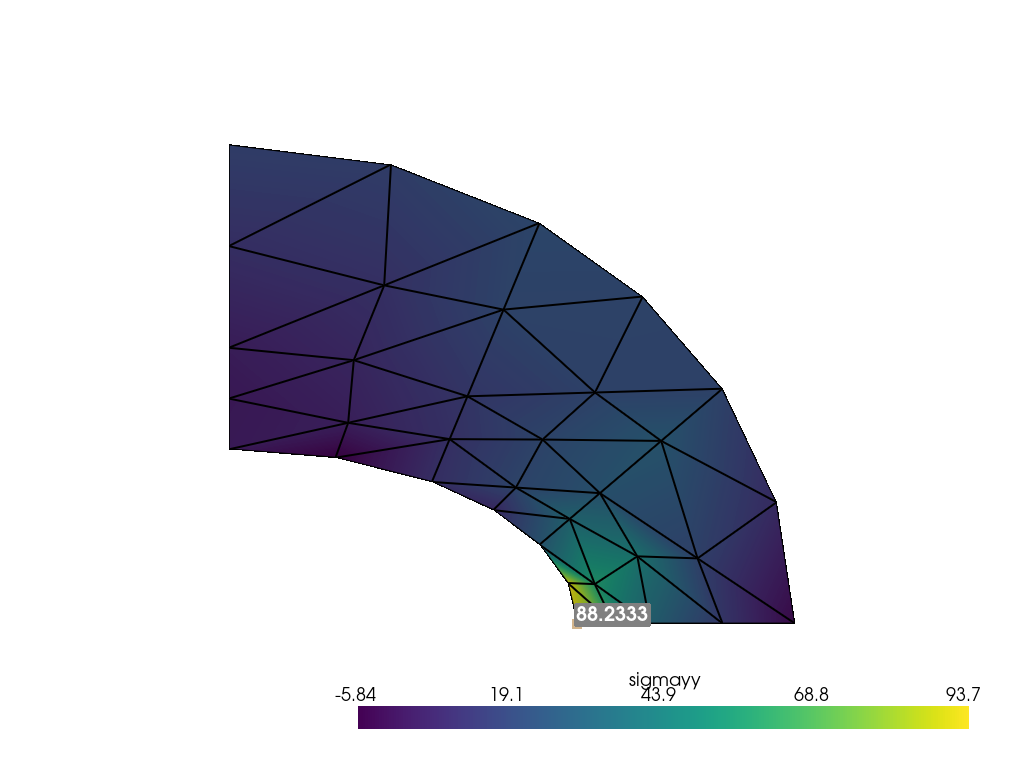
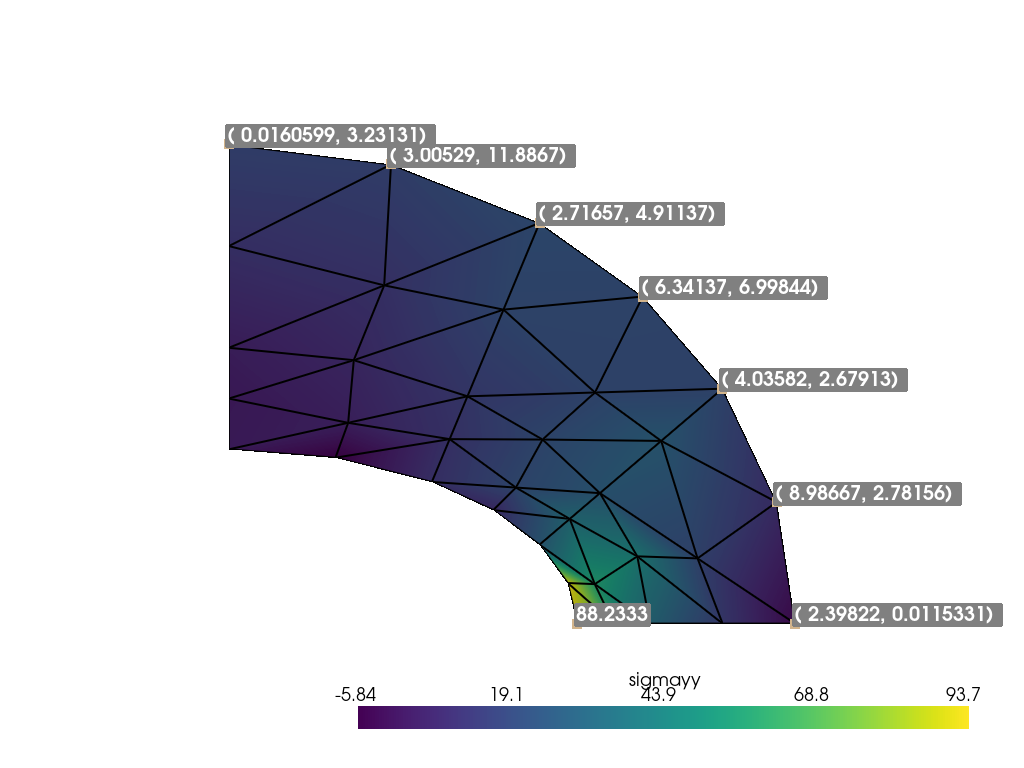
Add coarse-triangle-2d.py output

diff --git a/benchmarks_data/structure/elliptic_membrane/GetFEM/coarse-triangle-2d.py b/benchmarks_data/structure/elliptic_membrane/GetFEM/coarse-triangle-2d.py
@@ -45,6 +45,8 @@ md.add_initialized_data("nu", nu)
 md.add_isotropic_linearized_elasticity_pstress_brick(mim, "u", "E", "nu")
 md.add_normal_source_term_brick(mim, "u", "NeumannData", OUTER_BOUND)
 # md.add_source_term(mim, "(Reshape(NeumannData,qdim(u),meshdim)*Normal).Test_u", OUTER_BOUND)
+md.assembly()
+RHS = md.rhs()
 md.add_initialized_data("r1", [0, 0])
 md.add_initialized_data("r2", [0, 0])
 md.add_initialized_data("H1", [[1, 0], [0, 0]])
@@ -59,16 +61,24 @@ md.solve()
 U = md.variable("u")
 grad_u = gf.compute_gradient(mfu, U, mfd)
 sigmayy = clambda * (grad_u[0, 0] + grad_u[1, 1]) + 2.0 * mu * grad_u[1, 1]
-mfu.export_to_vtk("coarse-triangle-2d.vtk", "ascii", mfd, sigmayy, "sigmayy")
+mfu.export_to_vtk(
+    "coarse-triangle-2d.vtk", "ascii", mfd, sigmayy, "sigmayy", mfu, RHS, "RHS"
+)
 
 m = pv.read("coarse-triangle-2d.vtk")
 pl = pv.Plotter()
 pl.add_mesh(m, show_edges=True, line_width=2, scalars="sigmayy")
 pl.add_point_labels(
-    m.points[np.all(m.points == [2.0, 0.0, 0.0], axis=1)],
-    [str(m["sigmayy"][np.all(m.points == [2.0, 0.0, 0.0], axis=1)][0])],
-    point_size=10,
-    font_size=20,
-    text_color="white",
+    m.points[0], [str(m["sigmayy"][0])], point_size=10, font_size=20, text_color="white"
 )
+
+for i in [19, 21, 23, 26, 28, 30, 31]:
+    pl.add_point_labels(
+        m.points[i],
+        ["( " + str(m["RHS"][:, 0][i]) + ", " + str(m["RHS"][:, 1][i]) + ") "],
+        point_size=10,
+        font_size=20,
+        text_color="white",
+    )
+
 pl.show(cpos="xy", screenshot="coarse-triangle-2d.png")
